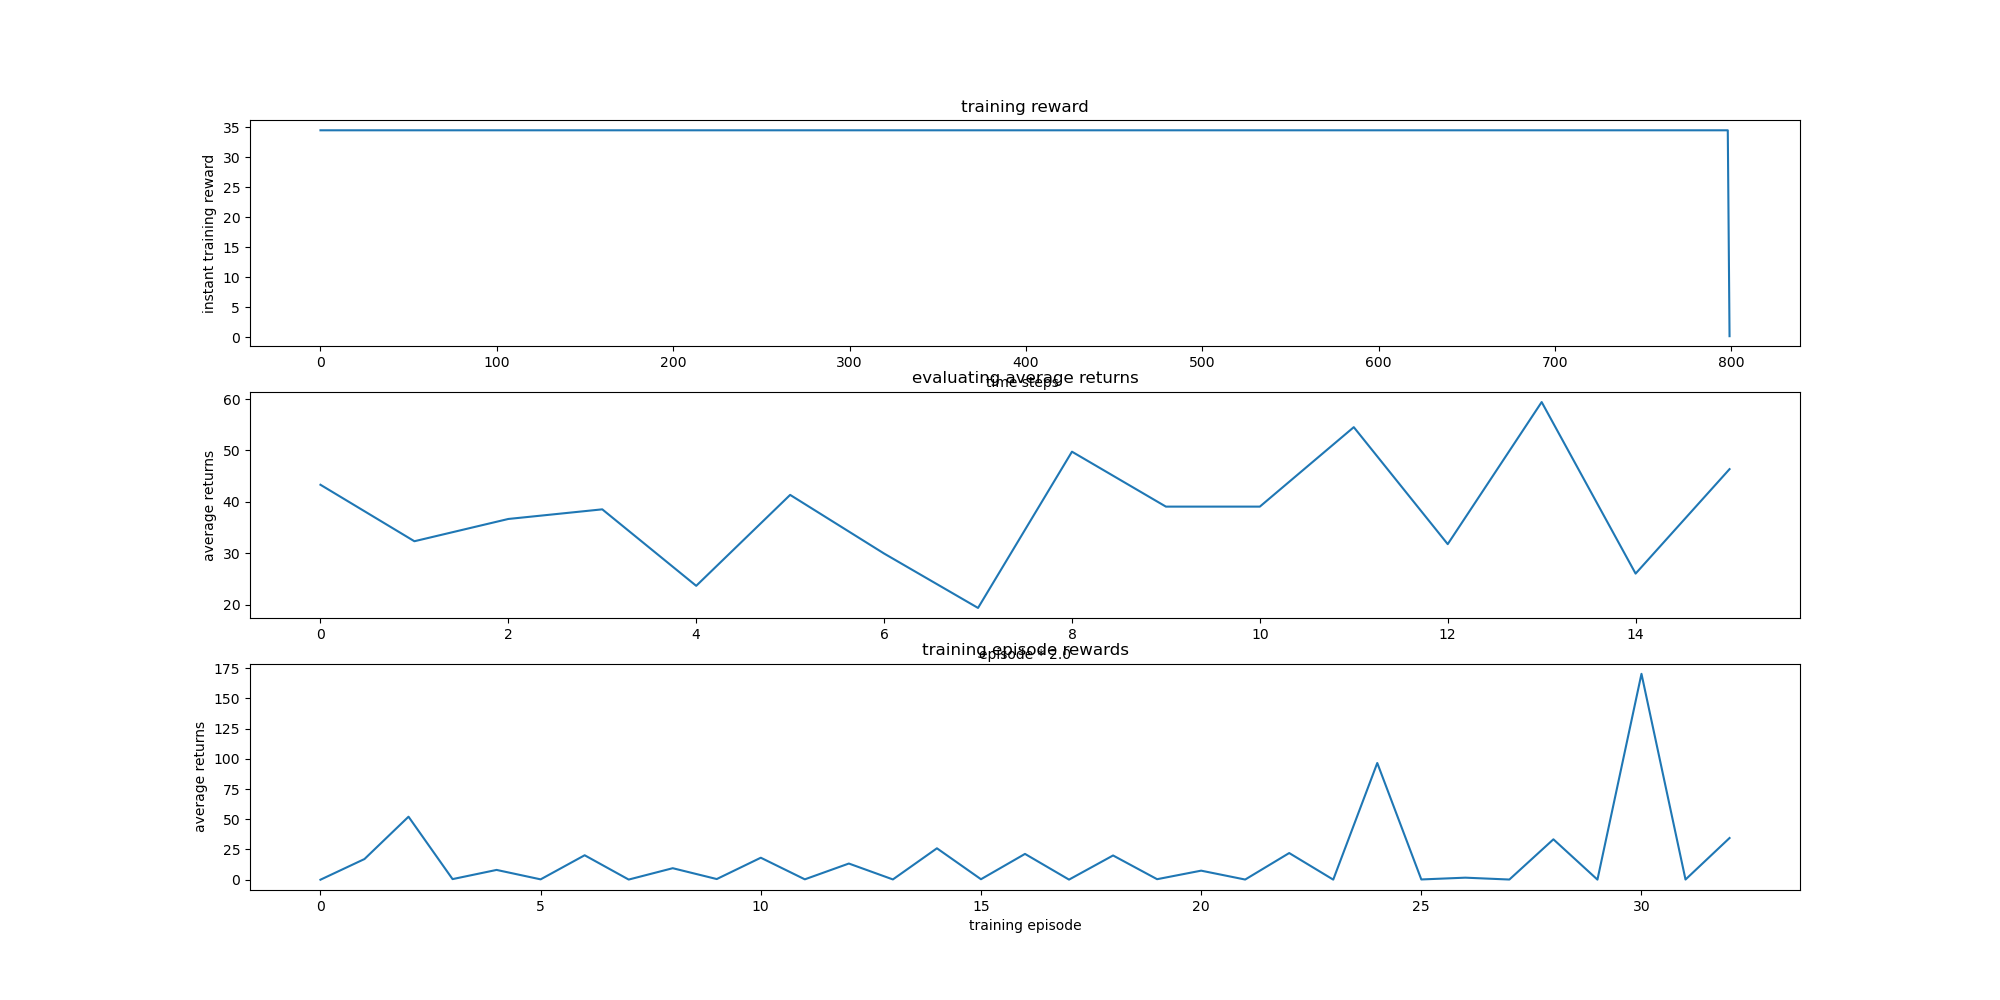
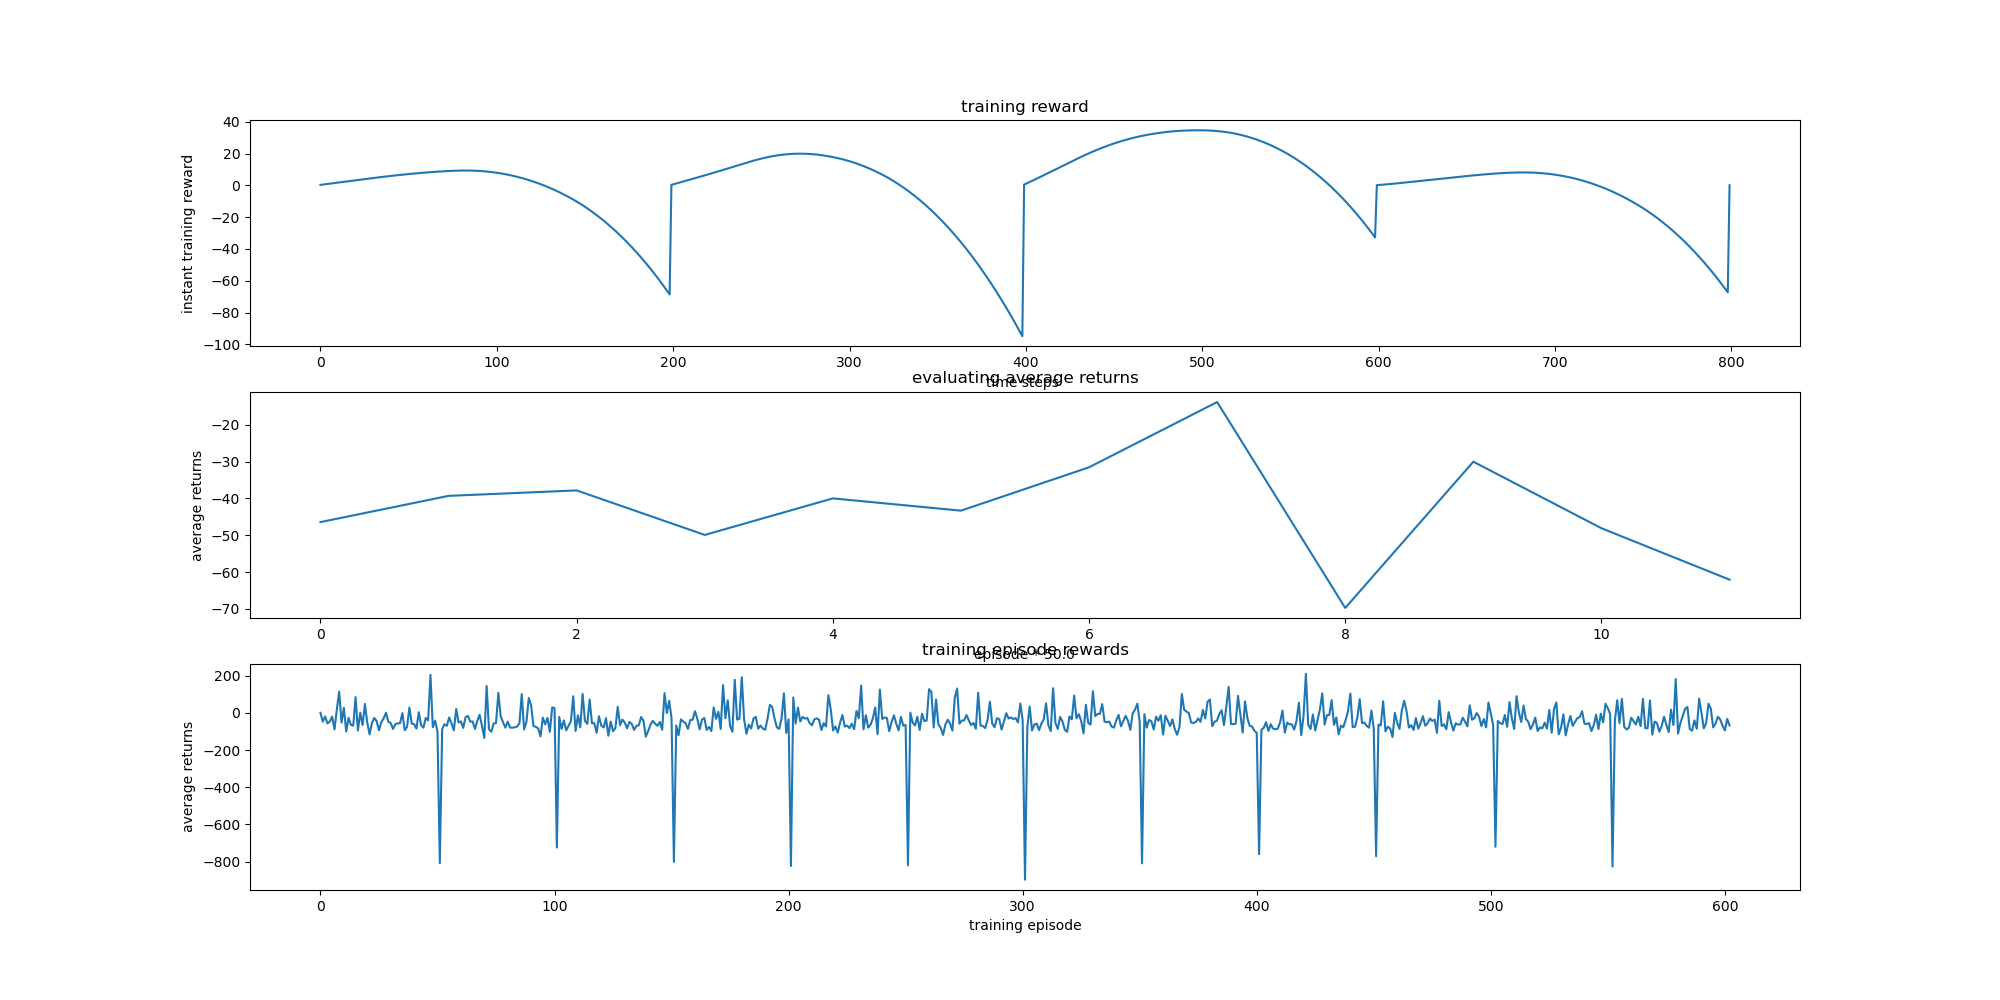
modified MASAC alg., while the results remain difficult to converge, that's so tough. Besides add MAPPO, but yet incomplete. Really the bad day

diff --git a/MADDPG-master/MAPPO/MAPPO.py b/MADDPG-master/MAPPO/MAPPO.py
@@ -1,11 +1,11 @@
 import torch
 import os
-from .actor_critic import Actor, Q_net
+from .actor_critic import Actor, Critic
 import einops
 import torch.nn.functional as F
 
 
-class MASAC:
+class MAPPO():
     def __init__(self, args):
         self.args = args
         self.train_step = 0
@@ -14,30 +14,72 @@ class MASAC:
         # 创建单个policy_net,这里的0，就是代表第0个agent的actor，由于单个actor，
         # 在homogeneous情况下随机一个都行
         self.q_lr = 1e-3
-
-        self.qf1 = Q_net(args).to(self.device)
-        self.qf2 = Q_net(args).to(self.device)
-
-        self.qf1_t = Q_net(args)
-        self.qf2_t = Q_net(args)
-
-        self.qf1_t.load_state_dict(self.qf1.state_dict())
-        self.qf2_t.load_state_dict(self.qf2.state_dict())
-        self.q_optimizer = torch.optim.Adam(list(self.qf1.parameters()) + list(self.qf2.parameters()), lr=self.q_lr)
-
         self.p_lr = 3e-4
+        self.critic = Critic(args).to(self.device)
         self.actor = Actor(args, 0).to(self.device)
+
+        #    以下是超参，还未加入arguments中
+        self.clip_param = args.clip_param
+        self.ppo_epoch = args.ppo_epoch
+        self.num_mini_batch = args.num_mini_batch
+        self.data_chunk_length = args.data_chunk_length
+        self.value_loss_coef = args.value_loss_coef
+        self.entropy_coef = args.entropy_coef
+        self.max_grad_norm = args.max_grad_norm
+        self.huber_delta = args.huber_delta
+        ############################################
         # self.actor_t = Actor(args, agent_id)
-        self.alpha = args.alpha
         # self.actor_t.load_state_dict(self.actor.state_dict())
+        # self.qf1_t.load_state_dict(self.qf1.state_dict())
+        # self.qf2_t.load_state_dict(self.qf2.state_dict())
+        self.q_optimizer = torch.optim.Adam((self.critic.parameters()), lr=self.q_lr)
         self.actor_optimizer = torch.optim.Adam(list(self.actor.parameters()), lr=self.p_lr)
-        if args.autotune:  # 如果有自动更新alpha参数的步骤
-            target_entropy = -torch.prod(torch.Tensor(args.action_shape.shape).to(self.device)).item()
-            log_alpha = torch.zeros(1, requires_grad=True, device=self.device)
-            self.alpha = log_alpha.exp().item()
-            a_optimizer = torch.optim.Adam([log_alpha], lr=args.q_lr)
+
 
     # 先留着用来加载和存放model参数
+    def cal_value_loss(self, values, value_preds_batch, return_batch, active_masks_batch):
+        """
+        Calculate value function loss.
+        :param values: (torch.Tensor) value function predictions.
+        :param value_preds_batch: (torch.Tensor) "old" value  predictions from data batch (used for value clip loss)
+        :param return_batch: (torch.Tensor) reward to go returns.
+        :param active_masks_batch: (torch.Tensor) denotes if agent is active or dead at a given timesep.
+
+        :return value_loss: (torch.Tensor) value function loss.
+        """
+        value_pred_clipped = value_preds_batch + (values - value_preds_batch).clamp(-self.clip_param,
+                                                                                        self.clip_param)
+        error_clipped = return_batch - value_pred_clipped
+        error_original = return_batch - values
+        value_loss_original = (error_original**2)/2 # MSE
+        value_loss = value_loss_original
+        value_loss = value_loss.mean()
+        # if self._use_popart or self._use_valuenorm:
+        #     self.value_normalizer.update(return_batch)
+        #     error_clipped = self.value_normalizer.normalize(return_batch) - value_pred_clipped
+        #     error_original = self.value_normalizer.normalize(return_batch) - values
+        # else:
+        #     error_clipped = return_batch - value_pred_clipped
+        #     error_original = return_batch - values
+
+        # if self._use_huber_loss:
+        #     value_loss_clipped = huber_loss(error_clipped, self.huber_delta)
+        #     value_loss_original = huber_loss(error_original, self.huber_delta)
+        # else:
+        #     value_loss_clipped = mse_loss(error_clipped)
+        #     value_loss_original = mse_loss(error_original)
+        #
+        # if self._use_clipped_value_loss:
+        #     value_loss = torch.max(value_loss_original, value_loss_clipped)
+        # else:
+        #     value_loss = value_loss_original
+        #
+        # if self._use_value_active_masks:
+        #     value_loss = (value_loss * active_masks_batch).sum() / active_masks_batch.sum()
+        # else:
+        #     value_loss = value_loss.mean()
+
+        return value_loss
 
     def save_model(self, train_step, agent_id):
         num = str(train_step // self.args.save_rate)
@@ -50,7 +92,6 @@ class MASAC:
         torch.save(self.policy.state_dict(), model_path + '/' + 'MASAC' + '/' + num + 'MASAC_actor_params.pkl')
         torch.save(self.qf1.state_dict(), model_path + '/' + 'MASAC' + '/' + num + 'MASAC_critic_q1_params.pkl')
         torch.save(self.qf2.state_dict(), model_path + '/' + 'MASAC' + '/' + num + 'MASAC_critic_q2_params.pkl')
-
 
     def load_model(self):
         pass
@@ -79,11 +120,11 @@ class MASAC:
         next_state_log = []
         with torch.no_grad():
 
-            #u_next, next_state_log_pi = self.policy.get_actions(o_next)#报错，格式不对
+            # u_next, next_state_log_pi = self.policy.get_actions(o_next)#报错，格式不对
             for i in range(self.args.n_agents):
                 u_next_i, next_state_log_i, _ = self.policy.get_actions(o_next[i])
                 u_next.append(u_next_i)
-                next_state_log.append(next_state_log_i) #
+                next_state_log.append(next_state_log_i)  #
             # next_state_log : 2 * tensor(256,1)
             # u_next: agent_number * batch_size * action shape.  e.g. 2* tensor(256, 2)
             # q_next: agent_number * batch * 1          e.g. 2 * tensor(256, 1)
@@ -104,7 +145,7 @@ class MASAC:
             qf1_a_values = self.qf1(o, u).view(-1)
             qf2_a_values = self.qf2(o, u).view(-1)
             min_qf_next_target = (torch.min(q1_next_target,
-                                           q2_next_target) - self.alpha * next_state_log_pi) # 相当于往Q里加了log
+                                            q2_next_target) - self.alpha * next_state_log_pi)  # 相当于往Q里加了log
             next_q_value = r.unsqueeze(1) + self.args.gamma * (min_qf_next_target).view(-1)
             # 这里应该有一个（1-done）在gamma后才对
             qf1_loss = F.mse_loss(qf1_a_values, next_q_value)
@@ -127,8 +168,8 @@ class MASAC:
                     u_pi.append(u_pi_i)
                     state_log_pi.append(state_log_pi_i)
                 log_pi = einops.reduce(
-                state_log_pi, "c b a -> b a", "sum"
-            )
+                    state_log_pi, "c b a -> b a", "sum"
+                )
                 qf1_pi = self.qf1(o, u_pi)
                 qf2_pi = self.qf2(o, u_pi)
                 min_qf_pi = torch.min(qf1_pi, qf2_pi)
@@ -141,4 +182,3 @@ class MASAC:
                 if self.train_step > 0 and self.train_step % self.args.save_rate == 0:
                     self.save_model(self.train_step, agent_id)
                 self.train_step += 1
-

diff --git a/MADDPG-master/common/arguments.py b/MADDPG-master/common/arguments.py
@@ -12,7 +12,7 @@ def get_args():
     parser.add_argument("--training-times", type=int, default=20, help="numbers of Training")
     # Environment
     parser.add_argument("--scenario-name", type=str, default="MTT", help="name of the scenario script")
-    parser.add_argument("--max-episode-len", type=int, default=1000, help="maximum episode length")
+    parser.add_argument("--max-episode-len", type=int, default=200, help="maximum episode length")
     parser.add_argument("--time-steps", type=int, default=200000, help="number of time steps")
     # 一个地图最多env.n个agents，用户可以定义min(env.n,num-adversaries)个敌人，剩下的是好的agent
     parser.add_argument("--num-adversaries", type=int, default=0, help="number of adversaries")
@@ -25,10 +25,12 @@ def get_args():
     parser.add_argument("--tau", type=float, default=0.01, help="parameter for updating the target network")
     parser.add_argument("--buffer-size", type=int, default=int(5e5), help="number of transitions can be stored in buffer")
     parser.add_argument("--batch-size", type=int, default=256, help="number of episodes to optimize at the same time")
-    # SAC temperature factor
+    # SAC relevant factor
     parser.add_argument("--alpha", type=float, default=0.2, help="Entropy regularization coefficient")
     parser.add_argument("--autotune", type=bool, default=False, help="automatic tuning of the entropy coefficient")
     parser.add_argument("--update-interval", type=int, default=1, help="regulate the update of policy network")
+    # PPO relevant paras
+    parser.add_argument("--centralized-input", type=bool, default=True, help="if true, the MAPPO will use centralized critic")
     # Checkpointing
     parser.add_argument("--save-dir", type=str, default="./model", help="directory in which training state and model should be saved")
     parser.add_argument("--save-rate", type=int, default=2000, help="save model once every time this many episodes are completed")
@@ -40,7 +42,7 @@ def get_args():
     parser.add_argument("--evaluate-episodes", type=int, default=10, help="number of episodes for evaluating")
     parser.add_argument("--evaluate-episode-len", type=int, default=200, help="length of episodes for evaluating")
     parser.add_argument("--evaluate", type=bool, default=False, help="whether to evaluate the model")
-    parser.add_argument("--evaluate-rate", type=int, default=2000, help="how often to evaluate model")
+    parser.add_argument("--evaluate-rate", type=int, default=10000, help="how often to evaluate model")
     args = parser.parse_args()
 
     return args

diff --git a/MADDPG-master/MAPPO/actor_critic.py b/MADDPG-master/MAPPO/actor_critic.py
@@ -1,0 +1,53 @@
+import torch
+import torch.nn as nn
+import torch.nn.functional as F
+import numpy as np
+from ..MASAC.MASAC import Actor as AC
+
+
+# MAPPO 的 critic 网络是 以 联合观察作为输入， 输出单个Q值
+# 而 actor 网络是 输入单个的观察维度，输出动作和对数概率, 这里直接继承SAC网络的actor
+# define the actor network
+class Actor(AC):
+    def __init__(self, args, agent_id):
+        super().__init__(args, agent_id)
+
+    def forward(self, x):
+        AC.forward(self, x)
+
+    def get_actions(self, x):
+        AC.get_actions(self, x)
+
+
+
+class Critic(nn.Module):
+    def __init__(self, args):
+        super(Critic, self).__init__()
+        self.max_action = args.high_action
+        self.centralized_input = args.centralized_input
+        # 如果centralized为true就是MAPPO，输入为joint obs, 否则就是IPPO,
+        if self.centralized_input:
+            self.fc1 = nn.Linear(sum(args.obs_shape), 64)  # 输入维度是观测维度和动作维度的和
+        else:
+            self.fc1 = nn.Linear(args.obs_shape[0], 64)
+        # 也就是说输入是两者的拼接
+        self.fc2 = nn.Linear(64, 64)
+        self.fc3 = nn.Linear(64, 64)
+        self.q_out = nn.Linear(64, 1)
+        # 输出的是Q
+
+    def forward(self, state, action):
+        if self.centralized_input:
+            state = torch.cat(state, dim=1)  # 将state中的元素拼接，按照行并排的方式，得到联合状态
+        # 其实进来的结构是agent_number*batch*observation,拼接够会变成batch*(2*observation)
+        # 具体有关cat  https://blog.csdn.net/scar2016/article/details/121382717
+        # for i in range(len(action)):
+        #     action[i] /= self.max_action        # 这一步是把action[i] ”归一化“，限制到[-1,1]
+        # action = torch.cat(action, dim=1)       # 拼接得到联合动作
+        # x = torch.cat(state, dim=1)   # 拼接状态和动作得到联合状态-动作对，也就是输入到critic中的是联合状态和联合动作
+        x = state
+        x = F.relu(self.fc1(x))
+        x = F.relu(self.fc2(x))
+        x = F.relu(self.fc3(x))
+        q_value = self.q_out(x)
+        return q_value

diff --git a/MADDPG-master/maddpg/actor_critic.py b/MADDPG-master/maddpg/actor_critic.py
@@ -37,10 +37,11 @@ class Critic(nn.Module):
 
     def forward(self, state, action):
         state = torch.cat(state, dim=1) # 将state中的元素拼接，按照行并排的方式，得到联合状态
+        # 2*256*19 -> 256*38 为什么？因为torch.cat传入的参数实际上是[tensor(256*19),tensor(256*19)],拼接的是中间的所有tensor，即dim=1，就是对于19那一维度拼接，即变成了状态的拼接
         # 具体有关cat  https://blog.csdn.net/scar2016/article/details/121382717
         for i in range(len(action)):
             action[i] /= self.max_action        # 这一步是把action[i] ”归一化“，限制到[-1,1]
-        action = torch.cat(action, dim=1)       # 拼接得到联合动作
+        action = torch.cat(action, dim=1)       # 拼接得到联合动作  同样action也是2*tensor(256*2)拼接后就是联合动作
         x = torch.cat([state, action], dim=1)   # 拼接状态和动作得到联合状态-动作对，也就是输入到critic中的是联合状态和联合动作
         x = F.relu(self.fc1(x))
         x = F.relu(self.fc2(x))

diff --git a/MADDPG-master/MASAC/actor_critic.py b/MADDPG-master/MASAC/actor_critic.py
@@ -58,9 +58,12 @@ class Actor(nn.Module):
     def forward(self, x):
         x = F.relu(self.fc1(x))     # 一层层连接，一共三层
         x = F.relu(self.fc2(x))
+
         log_std = self.fc_logstd(x)
+        # log_std: tensor(256,2)
         log_std = torch.tanh(log_std)
         mean = self.fc_mean(x)
+        # mean: tensor(256,2)
         log_std = LOG_STD_MIN + 0.5 * (LOG_STD_MAX - LOG_STD_MIN) * (log_std + 1)  # From SpinUp / Denis Yarats
 
         return mean, log_std
@@ -70,6 +73,7 @@ class Actor(nn.Module):
         std = log_std.exp()
         normal = torch.distributions.Normal(mean, std)  #   Normal distribution
         x_t = normal.rsample()  # for reparameterization trick (mean + std * N(0,1)) 先对标准正态采样，再重新加上
+        # x_t, y_t : tensor(256, 2)
         y_t = torch.tanh(x_t)
         action = y_t * self.action_scale + self.action_bias  # 实际上就是把action规范到min——max区间中
         log_prob = normal.log_prob(x_t) # x值对应的对数概率，因为normal代表了一个正态分布的概率密度函数

diff --git a/MADDPG-master/runner.py b/MADDPG-master/runner.py
@@ -25,8 +25,8 @@ class Runner:
         self.buffer = Buffer(args)
         self.save_path = self.args.save_dir + '/' + self.args.scenario_name + '/' + self.algorithm
         ## 规定存放csv的路径位置以及存放fig的位置
-        self.csv_save_dir = self.args.csv_save_dir + '/' + self.args.scenario_name+ '/' + self.algorithm
-        self.fig_save_dir = self.args.fig_save_dir + '/' + self.args.scenario_name+ '/' + self.algorithm
+        self.csv_save_dir = self.args.csv_save_dir + '/' + self.args.scenario_name + '/' + self.algorithm
+        self.fig_save_dir = self.args.fig_save_dir + '/' + self.args.scenario_name + '/' + self.algorithm
 
         if not os.path.exists(self.save_path):
             os.makedirs(self.save_path)

diff --git a/MADDPG-master/common/multiagent/scenarios/MTT.py b/MADDPG-master/common/multiagent/scenarios/MTT.py
@@ -159,7 +159,7 @@ class Scenario(BaseScenario):
         bound_reward = 0
         judge_rew = 3  # 奖励，用来控制边界
         #   边界奖励权重，越高则边界惩罚越大
-        bound_reward_weight = 0.01
+        bound_reward_weight = 0.1
         # 如果观察到对象，返回距离奖励，否则为0
         # if agent.obs_flag:
         #     dis_map = world.distance_cal_target()
@@ -247,7 +247,7 @@ class Scenario(BaseScenario):
         if bound_reward < 0:
             print("out of boundary, agent:", agent_index, 'value', bound_reward)
 
-        return dis_reward
+        return dis_reward + bound_reward
 
     # 以下是对手的奖励，这里也没用
     # def adversary_reward(self, agent, world):

diff --git a/MADDPG-master/main.py b/MADDPG-master/main.py
@@ -21,6 +21,7 @@ if __name__ == '__main__':
     env, args = make_env(args)  # 将一系列输入的参数和环境作为变量，传递给下面的运行
     runner = Runner(args, env, algorithm)  #
     clear_folder(runner.csv_save_dir)   # 清空目标文件夹中的所有文件
+    clear_folder(runner.save_path)
 
     if args.evaluate:
         returns = runner.evaluate()

diff --git a/MADDPG-master/MAPPO/__init__.py b/MADDPG-master/MAPPO/__init__.py
@@ -1,0 +1,1 @@
+# 让该文件夹中的文件能够import其他文件夹的包
